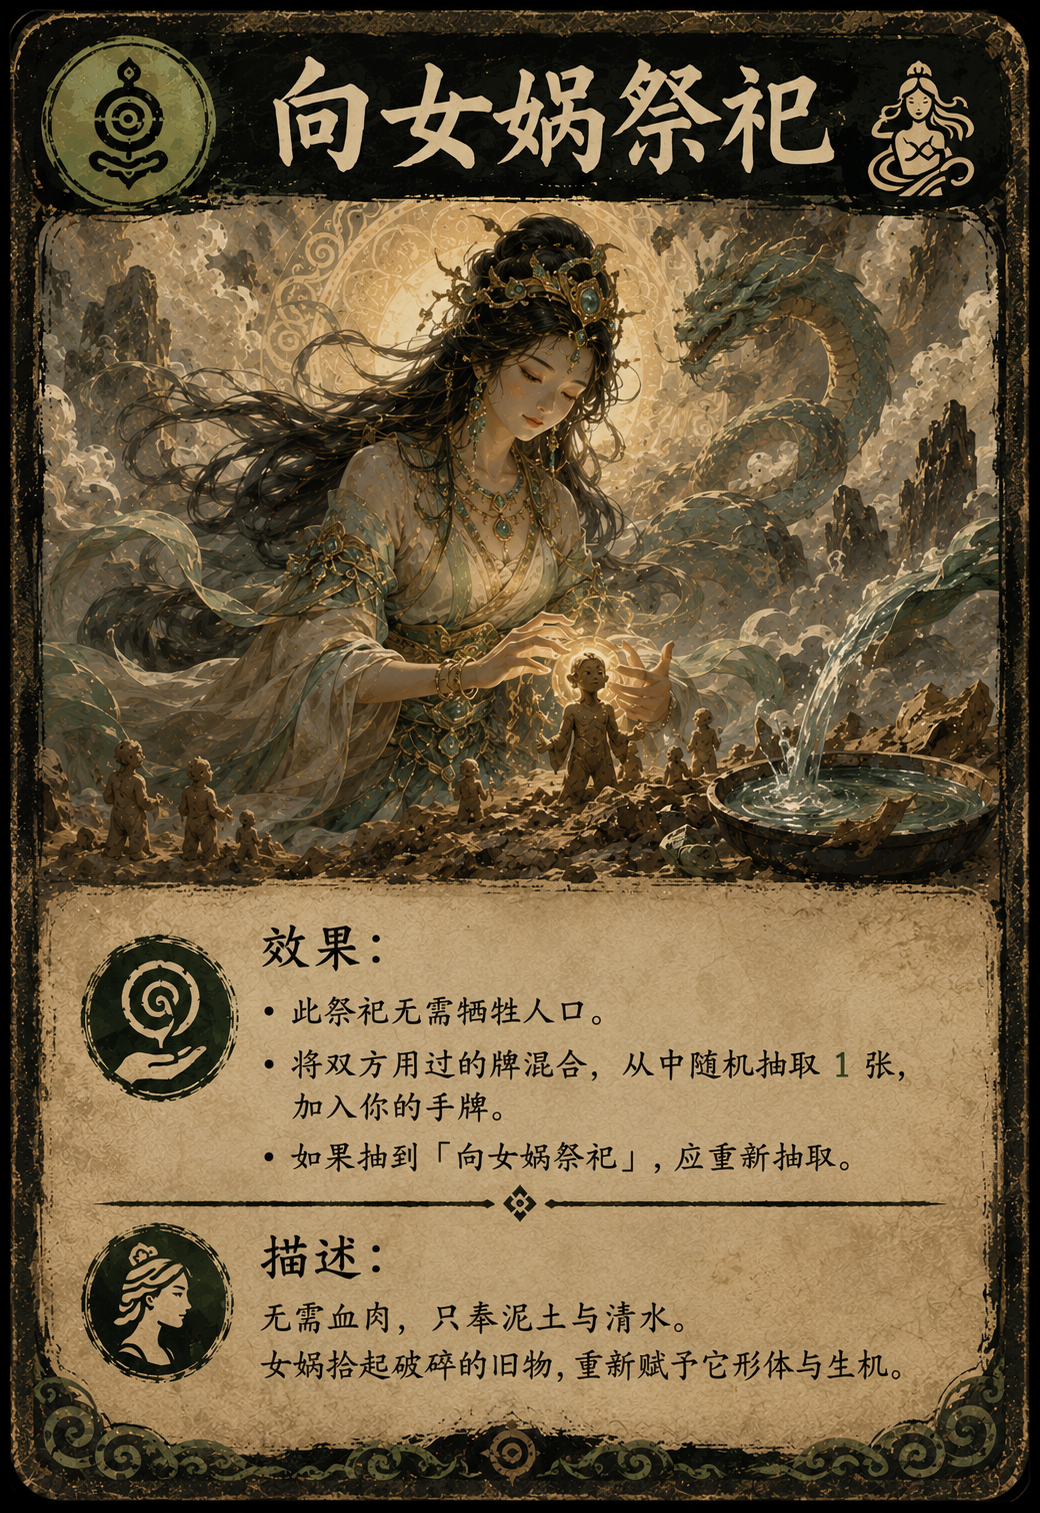
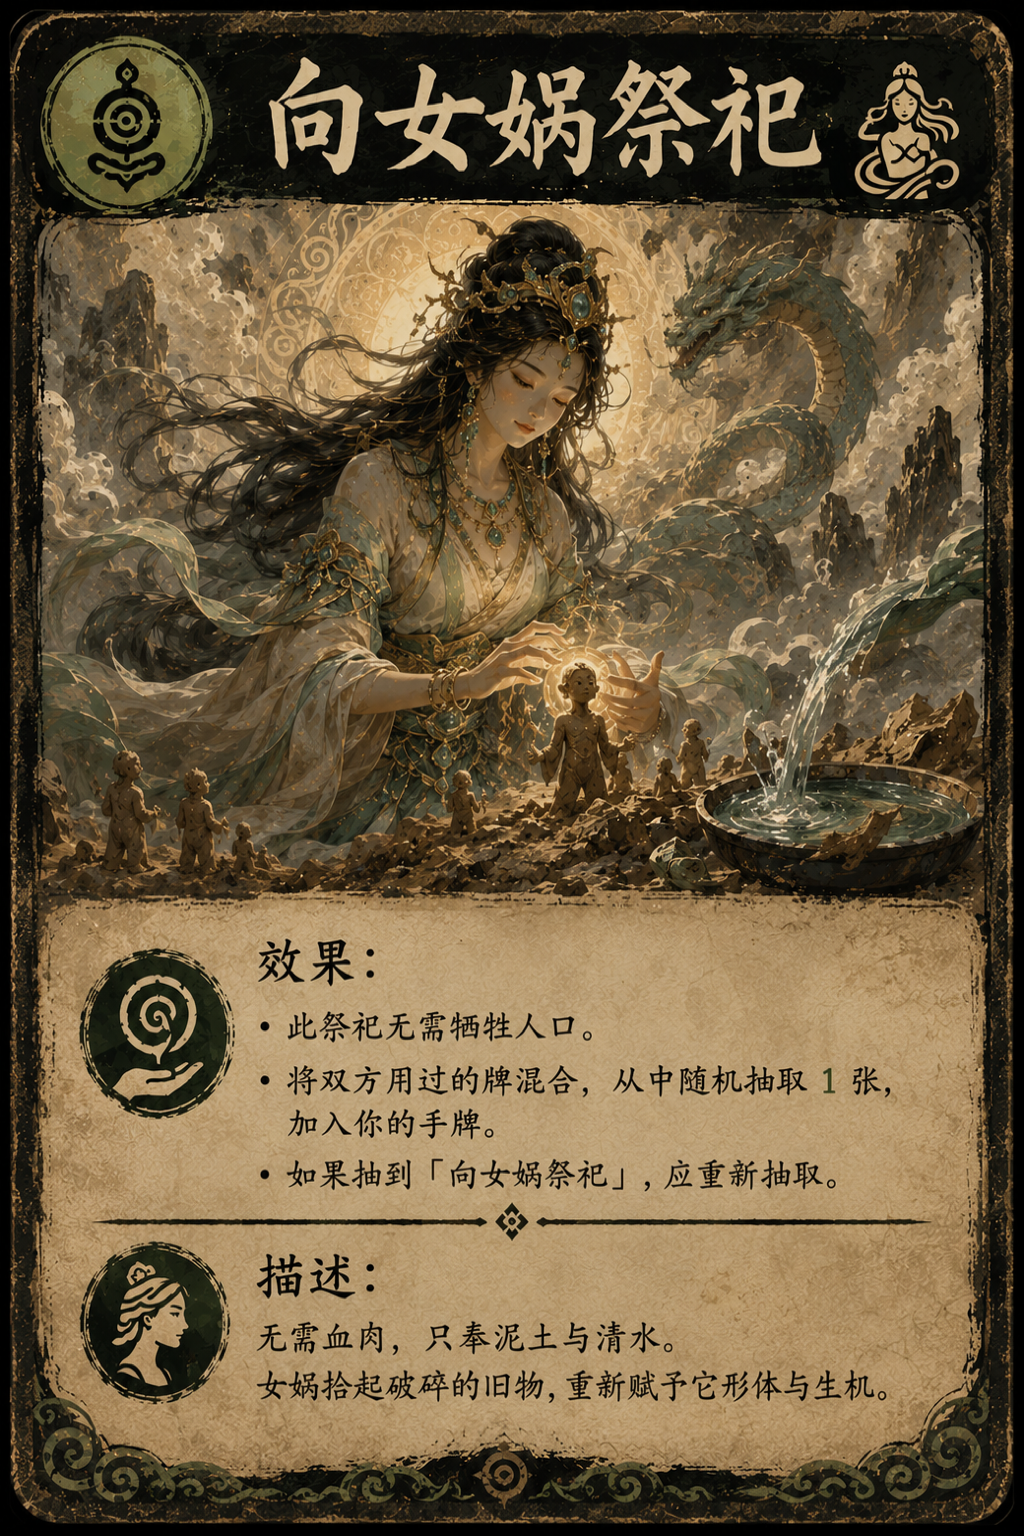
update with rules.html

Changed region(s): [[0.6875, 0.7455, 0.7188, 0.7766]]

diff --git a/public/rules.html b/public/rules.html
@@ -14,6 +14,7 @@
       --accent: #fbbf24;
       --link: #60a5fa;
       --border: #4b5563;
+      --card-width: 168px;
     }
 
     * { box-sizing: border-box; }
@@ -35,9 +36,7 @@
       padding: 2.5rem 1.25rem 4rem;
     }
 
-    .nav {
-      margin-bottom: 2rem;
-    }
+    .nav { margin-bottom: 2rem; }
 
     .nav a {
       color: var(--link);
@@ -75,7 +74,7 @@
 
     h4 {
       font-size: 1.05rem;
-      margin: 1.5rem 0 0.5rem;
+      margin: 0 0 0.75rem;
       color: #fde68a;
     }
 
@@ -91,7 +90,42 @@
 
     strong { color: var(--text); font-weight: 600; }
 
-    .card {
+    .deck-preview {
+      display: flex;
+      flex-wrap: wrap;
+      gap: 0.75rem;
+      justify-content: center;
+      margin: 1.25rem 0 1.75rem;
+      padding: 1rem;
+      background: rgba(31, 41, 55, 0.6);
+      border: 1px solid var(--border);
+      border-radius: 0.75rem;
+    }
+
+    .deck-preview figure {
+      margin: 0;
+      text-align: center;
+    }
+
+    .deck-preview img {
+      width: 72px;
+      height: auto;
+      aspect-ratio: 2 / 3;
+      object-fit: contain;
+      border-radius: 0.35rem;
+      border: 1px solid var(--border);
+      display: block;
+    }
+
+    .deck-preview figcaption {
+      font-size: 0.7rem;
+      color: #9ca3af;
+      margin-top: 0.35rem;
+      max-width: 72px;
+      line-height: 1.3;
+    }
+
+    .rule-card {
       background: rgba(31, 41, 55, 0.85);
       border: 1px solid var(--border);
       border-radius: 0.75rem;
@@ -99,7 +133,34 @@
       margin: 1rem 0 1.5rem;
     }
 
-    .card .label {
+    .rule-card-inner {
+      display: flex;
+      gap: 1.25rem;
+      align-items: flex-start;
+    }
+
+    .rule-card-art {
+      flex-shrink: 0;
+      width: var(--card-width);
+    }
+
+    .rule-card-art img {
+      width: 100%;
+      height: auto;
+      aspect-ratio: 2 / 3;
+      object-fit: contain;
+      border-radius: 0.5rem;
+      border: 1px solid var(--border);
+      display: block;
+      background: #111827;
+    }
+
+    .rule-card-body {
+      flex: 1;
+      min-width: 0;
+    }
+
+    .label {
       display: inline-block;
       font-size: 0.75rem;
       text-transform: uppercase;
@@ -121,6 +182,17 @@
       color: #9ca3af;
       font-size: 0.875rem;
       text-align: center;
+    }
+
+    @media (max-width: 480px) {
+      :root { --card-width: 120px; }
+
+      .rule-card-inner {
+        flex-direction: column;
+        align-items: center;
+      }
+
+      .rule-card-body { width: 100%; }
     }
   </style>
 </head>
@@ -149,6 +221,29 @@
       <li>双方同时公开并结算本轮行动。当任一部落人口降至 0 或以下时，该部落被击败。</li>
     </ul>
 
+    <div class="deck-preview" aria-label="卡牌一览">
+      <figure>
+        <img src="/cards/jl.png" alt="劫掠" width="72" height="108" />
+        <figcaption>劫掠 ×2</figcaption>
+      </figure>
+      <figure>
+        <img src="/cards/yx.png" alt="夜袭" width="72" height="108" />
+        <figcaption>夜袭 ×2</figcaption>
+      </figure>
+      <figure>
+        <img src="/cards/sy.png" alt="守夜" width="72" height="108" />
+        <figcaption>守夜 ×2</figcaption>
+      </figure>
+      <figure>
+        <img src="/cards/xsyxj.png" alt="向蚩尤献祭" width="72" height="108" />
+        <figcaption>向蚩尤献祭</figcaption>
+      </figure>
+      <figure>
+        <img src="/cards/xnwjs.png" alt="向女娲祭祀" width="72" height="108" />
+        <figcaption>向女娲祭祀</figcaption>
+      </figure>
+    </div>
+
     <h3>1 人口</h3>
     <p>每位玩家拥有一个独立且公开的部落人口数。</p>
     <p>游戏开始时，每个部落拥有 <strong>15 人口</strong>。玩家使用人口标记、计数器或纸笔记录当前人口。</p>
@@ -174,61 +269,96 @@
 
     <h3>4 卡牌设计</h3>
 
-    <div class="card">
-      <h4>4.1 夜袭</h4>
-      <div class="label">效果</div>
-      <p>如果本轮对方的卡牌不是「守夜」，对敌方部落造成 3 点人口伤害。</p>
-      <div class="label">描述</div>
-      <p class="flavor">月黑风高，烽火未燃。<br />当敌方听见马蹄声时，长矛已然沾血。</p>
+    <div class="rule-card">
+      <div class="rule-card-inner">
+        <div class="rule-card-art">
+          <img src="/cards/yx.png" alt="夜袭" width="168" height="252" />
+        </div>
+        <div class="rule-card-body">
+          <h4>4.1 夜袭</h4>
+          <div class="label">效果</div>
+          <p>如果本轮对方的卡牌不是「守夜」，对敌方部落造成 3 点人口伤害。</p>
+          <div class="label">描述</div>
+          <p class="flavor">月黑风高，烽火未燃。<br />当敌方听见马蹄声时，长矛已然沾血。</p>
+        </div>
+      </div>
     </div>
 
-    <div class="card">
-      <h4>4.2 守夜</h4>
-      <div class="label">效果</div>
-      <p>如果本轮对方打出「夜袭」或「劫掠」，使其效果无效。</p>
-      <p>如果对方打出的是「夜袭」，再对敌方部落造成 1 点人口伤害。</p>
-      <div class="label">描述</div>
-      <p class="flavor">长夜无声，火把未熄。<br />龟甲上的纹路告诉你，今夜不同寻常。<br />于是你安排守夜人握紧兵刃，只等黑暗中的脚步靠近。</p>
+    <div class="rule-card">
+      <div class="rule-card-inner">
+        <div class="rule-card-art">
+          <img src="/cards/sy.png" alt="守夜" width="168" height="252" />
+        </div>
+        <div class="rule-card-body">
+          <h4>4.2 守夜</h4>
+          <div class="label">效果</div>
+          <p>如果本轮对方打出「夜袭」或「劫掠」，使其效果无效。</p>
+          <p>如果对方打出的是「夜袭」，再对敌方部落造成 1 点人口伤害。</p>
+          <div class="label">描述</div>
+          <p class="flavor">长夜无声，火把未熄。<br />龟甲上的纹路告诉你，今夜不同寻常。<br />于是你安排守夜人握紧兵刃，只等黑暗中的脚步靠近。</p>
+        </div>
+      </div>
     </div>
 
-    <div class="card">
-      <h4>4.3 劫掠</h4>
-      <div class="label">效果</div>
-      <p>从敌方部落转移 1 人口至你的部落，并按照以下优先顺序结算：</p>
-      <ol>
-        <li><strong>优先夺回族人：</strong> 如果敌方部落控制着至少 1 名原属于你的俘虏，必须夺回其中 1 名。该人口返回你的部落，并恢复为普通人口，不再视为俘虏。</li>
-        <li><strong>否则掳掠人口：</strong> 如果敌方部落没有控制任何原属于你的俘虏，则从敌方部落掳掠 1 名普通人口。该人口转移至你的部落，并视为由你控制的敌方俘虏。</li>
-      </ol>
-      <p>如果对方打出「守夜」，此次「劫掠」无效。</p>
-      <p>如果双方本轮同时打出「劫掠」，均以本轮行动公开前的部落状态判断应当「夺回族人」还是「掳掠人口」，然后同时完成转移。本轮结算中新产生或被夺回的俘虏，不会改变另一方本轮「劫掠」的效果。</p>
-      <div class="label">描述</div>
-      <p class="flavor">火光越过林间，哭喊淹没部落。<br />有人掳走敌族，也有人趁乱救回失散的族人。</p>
+    <div class="rule-card">
+      <div class="rule-card-inner">
+        <div class="rule-card-art">
+          <img src="/cards/jl.png" alt="劫掠" width="168" height="252" />
+        </div>
+        <div class="rule-card-body">
+          <h4>4.3 劫掠</h4>
+          <div class="label">效果</div>
+          <p>从敌方部落转移 1 人口至你的部落，并按照以下优先顺序结算：</p>
+          <ol>
+            <li><strong>优先夺回族人：</strong> 如果敌方部落控制着至少 1 名原属于你的俘虏，必须夺回其中 1 名。该人口返回你的部落，并恢复为普通人口，不再视为俘虏。</li>
+            <li><strong>否则掳掠人口：</strong> 如果敌方部落没有控制任何原属于你的俘虏，则从敌方部落掳掠 1 名普通人口。该人口转移至你的部落，并视为由你控制的敌方俘虏。</li>
+          </ol>
+          <p>如果对方打出「守夜」，此次「劫掠」无效。</p>
+          <p>如果双方本轮同时打出「劫掠」，均以本轮行动公开前的部落状态判断应当「夺回族人」还是「掳掠人口」，然后同时完成转移。本轮结算中新产生或被夺回的俘虏，不会改变另一方本轮「劫掠」的效果。</p>
+          <div class="label">描述</div>
+          <p class="flavor">火光越过林间，哭喊淹没部落。<br />有人掳走敌族，也有人趁乱救回失散的族人。</p>
+        </div>
+      </div>
     </div>
 
-    <div class="card">
-      <h4>4.4 向女娲祭祀</h4>
-      <div class="label">效果</div>
-      <p>此祭祀无需牺牲人口。</p>
-      <p>在双方弃牌堆中合计至少有 3 张可抽取的牌的情况下，将双方用过的牌混合，从中随机抽取 1 张，加入你的手牌。</p>
-      <p>如果抽到「向女娲祭祀」，应重新抽取。</p>
-      <div class="label">描述</div>
-      <p class="flavor">无需血肉，只奉泥土与清水。<br />女娲拾起破碎的旧物，重新赋予它形体与生机。</p>
+    <div class="rule-card">
+      <div class="rule-card-inner">
+        <div class="rule-card-art">
+          <img src="/cards/xnwjs.png" alt="向女娲祭祀" width="168" height="252" />
+        </div>
+        <div class="rule-card-body">
+          <h4>4.4 向女娲祭祀</h4>
+          <div class="label">效果</div>
+          <p>此祭祀无需牺牲人口。</p>
+          <p>在双方弃牌堆中合计至少有 3 张可抽取的牌的情况下，将双方用过的牌混合，从中随机抽取 1 张，加入你的手牌。</p>
+          <p>如果抽到「向女娲祭祀」，应重新抽取。</p>
+          <div class="label">描述</div>
+          <p class="flavor">无需血肉，只奉泥土与清水。<br />女娲拾起破碎的旧物，重新赋予它形体与生机。</p>
+        </div>
+      </div>
     </div>
 
-    <div class="card">
-      <h4>4.5 向蚩尤献祭</h4>
-      <div class="label">效果</div>
-      <p>发动时，根据你控制的敌方俘虏数量，必须按照以下优先顺序选择效果：</p>
-      <ol>
-        <li><strong>血染高台：</strong> 如果你控制至少 2 名敌方俘虏，牺牲其中 2 名，对敌方部落造成 6 点人口伤害。</li>
-        <li><strong>献俘血祭：</strong> 否则，如果你控制 1 名敌方俘虏，牺牲该俘虏，对敌方部落造成 4 点人口伤害。</li>
-        <li><strong>血祭本族：</strong> 否则，牺牲己方部落 2 名普通人口，对敌方部落造成 4 点人口伤害。</li>
-      </ol>
-      <p>如果无法支付对应效果要求的祭品，则不能打出此牌。</p>
-      <div class="label">同轮结算</div>
-      <p>「向蚩尤献祭」以本轮行动公开时控制的俘虏数量决定发动效果，并立即牺牲相应祭品。已经被献祭的俘虏不能在同一轮中被「劫掠」夺回。</p>
-      <div class="label">描述</div>
-      <p class="flavor">战鼓震地，血染祭台。<br />蚩尤不问祭品来自何方，只问战争是否足够惨烈。</p>
+    <div class="rule-card">
+      <div class="rule-card-inner">
+        <div class="rule-card-art">
+          <img src="/cards/xsyxj.png" alt="向蚩尤献祭" width="168" height="252" />
+        </div>
+        <div class="rule-card-body">
+          <h4>4.5 向蚩尤献祭</h4>
+          <div class="label">效果</div>
+          <p>发动时，根据你控制的敌方俘虏数量，必须按照以下优先顺序选择效果：</p>
+          <ol>
+            <li><strong>血染高台：</strong> 如果你控制至少 2 名敌方俘虏，牺牲其中 2 名，对敌方部落造成 6 点人口伤害。</li>
+            <li><strong>献俘血祭：</strong> 否则，如果你控制 1 名敌方俘虏，牺牲该俘虏，对敌方部落造成 4 点人口伤害。</li>
+            <li><strong>血祭本族：</strong> 否则，牺牲己方部落 2 名普通人口，对敌方部落造成 4 点人口伤害。</li>
+          </ol>
+          <p>如果无法支付对应效果要求的祭品，则不能打出此牌。</p>
+          <div class="label">同轮结算</div>
+          <p>「向蚩尤献祭」以本轮行动公开时控制的俘虏数量决定发动效果，并立即牺牲相应祭品。已经被献祭的俘虏不能在同一轮中被「劫掠」夺回。</p>
+          <div class="label">描述</div>
+          <p class="flavor">战鼓震地，血染祭台。<br />蚩尤不问祭品来自何方，只问战争是否足够惨烈。</p>
+        </div>
+      </div>
     </div>
 
     <footer>

diff --git a/board-version/README.md b/board-version/README.md
@@ -64,6 +64,8 @@
 
 #### 4.1 夜袭
 
+![夜袭](../public/cards/yx.png)
+
 **效果：**
 
 如果本轮对方的卡牌不是「守夜」，对敌方部落造成 3 点人口伤害。
@@ -77,6 +79,8 @@
 
 
 #### 4.2 守夜
+
+![守夜](../public/cards/sy.png)
 
 **效果：**
 
@@ -95,6 +99,8 @@
 
 
 #### **4.3 劫掠**
+
+![劫掠](../public/cards/jl.png)
 
 **效果：**
 
@@ -117,6 +123,8 @@
 
 #### 4.4 向女娲祭祀
 
+![向女娲祭祀](../public/cards/xnwjs.png)
+
 **效果：**
 
 此祭祀无需牺牲人口。
@@ -134,6 +142,8 @@
 
 
 #### 4.5 向蚩尤献祭
+
+![向蚩尤献祭](../public/cards/xsyxj.png)
 
 **效果：**
 
